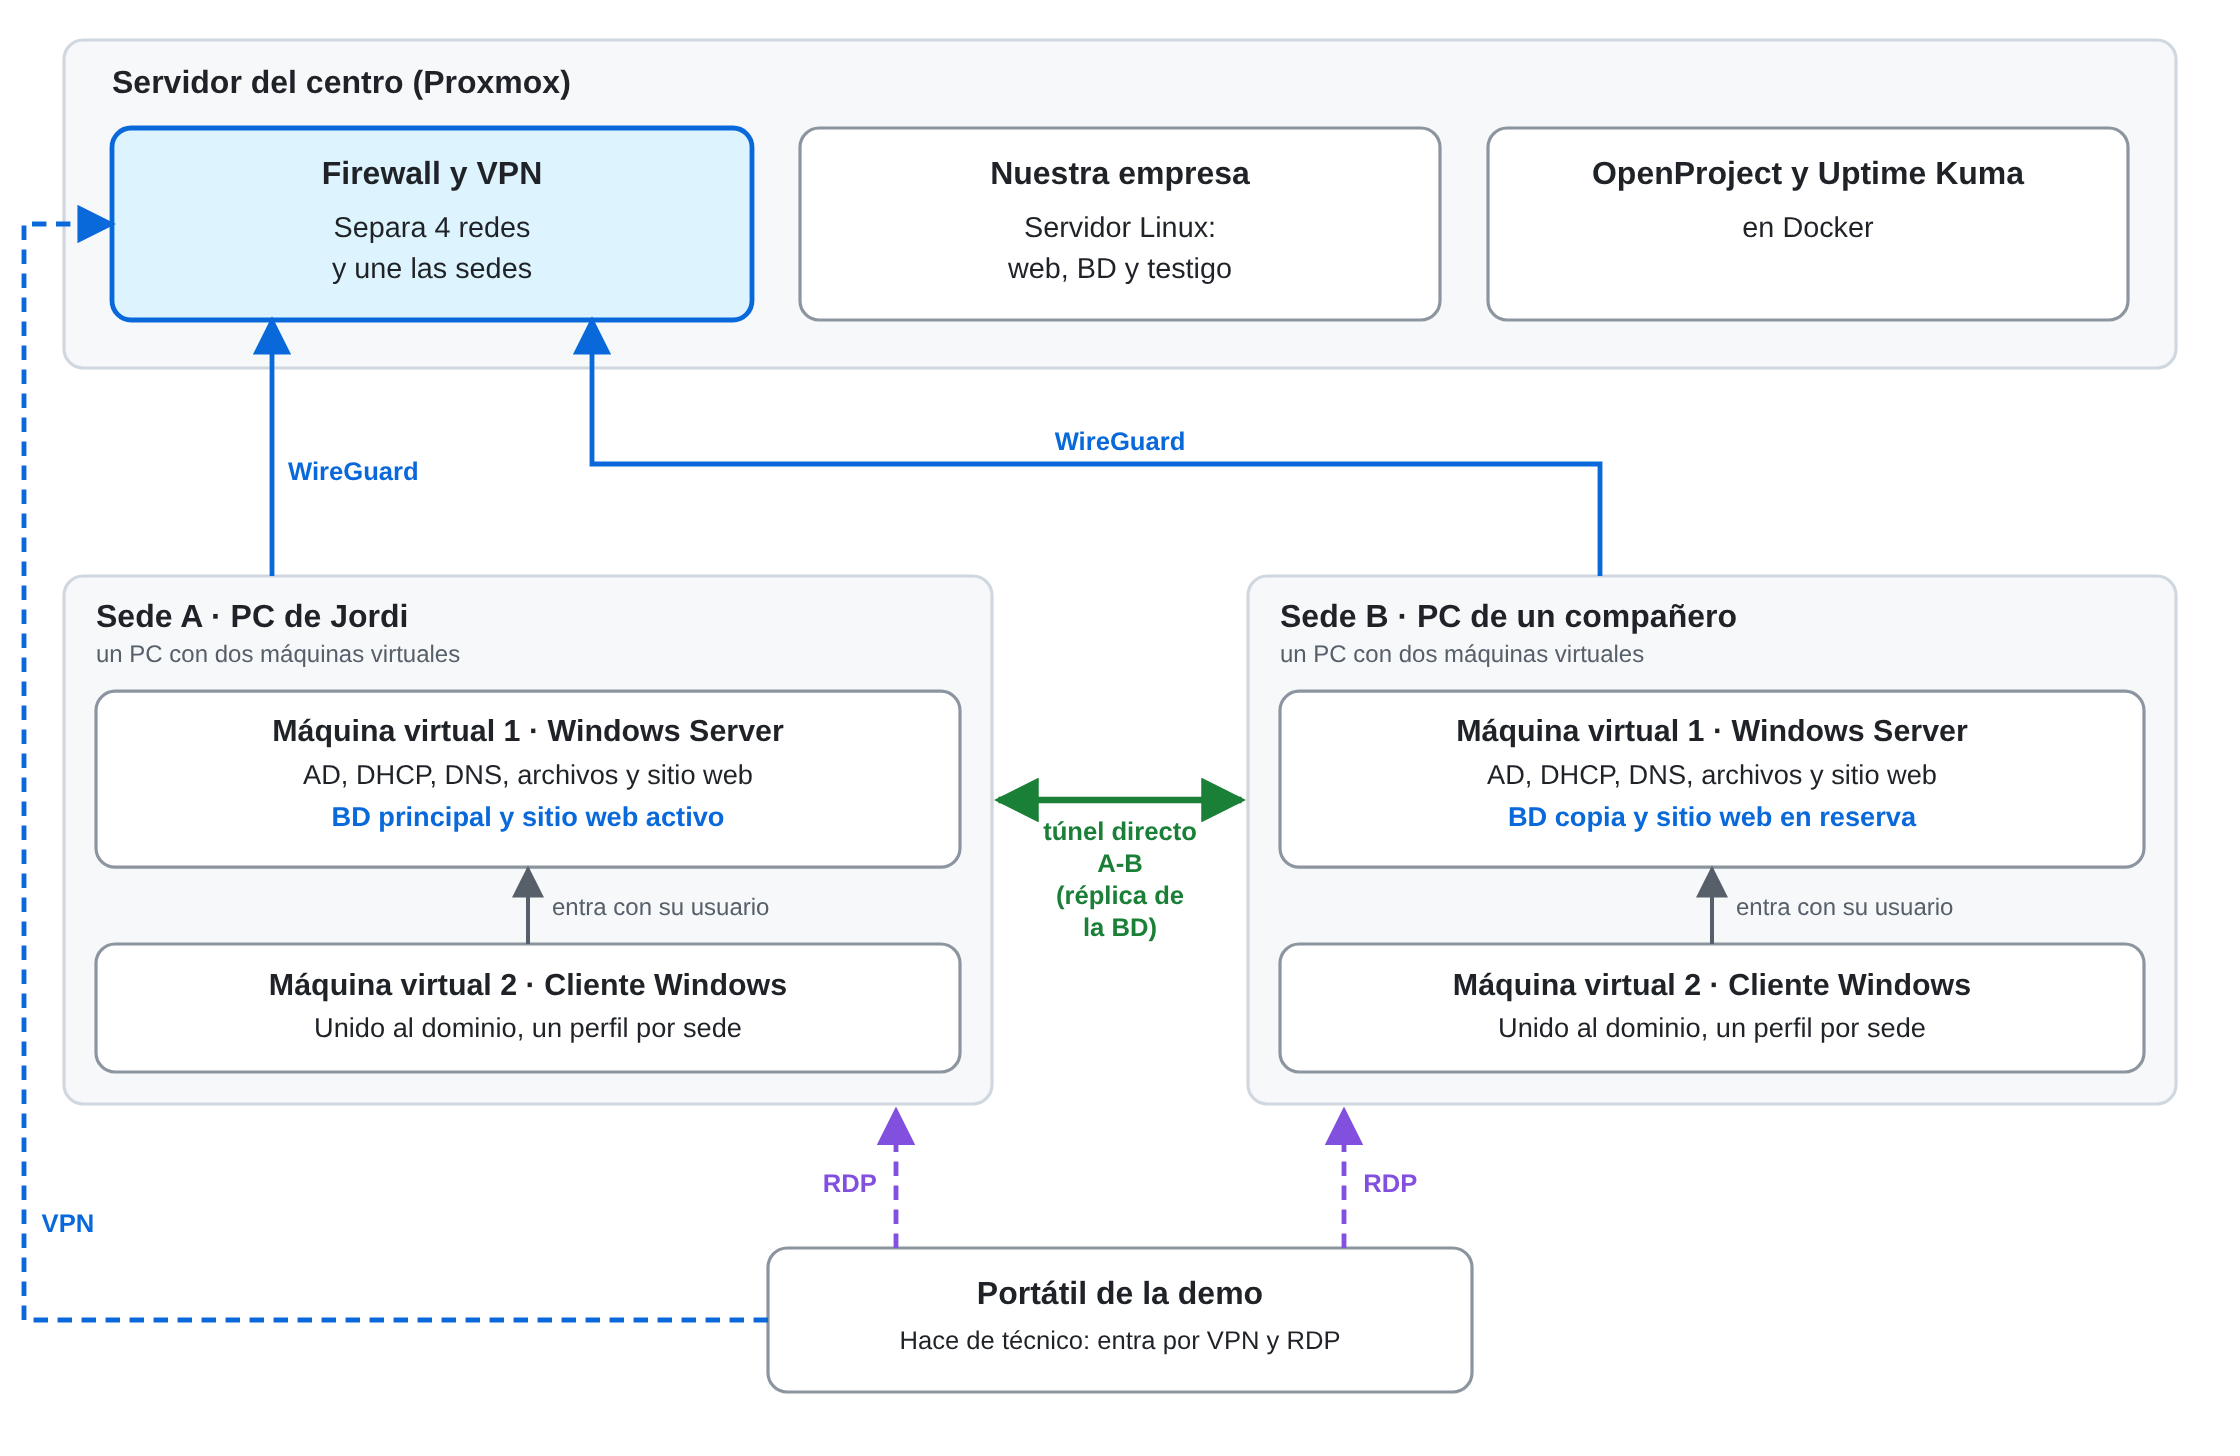
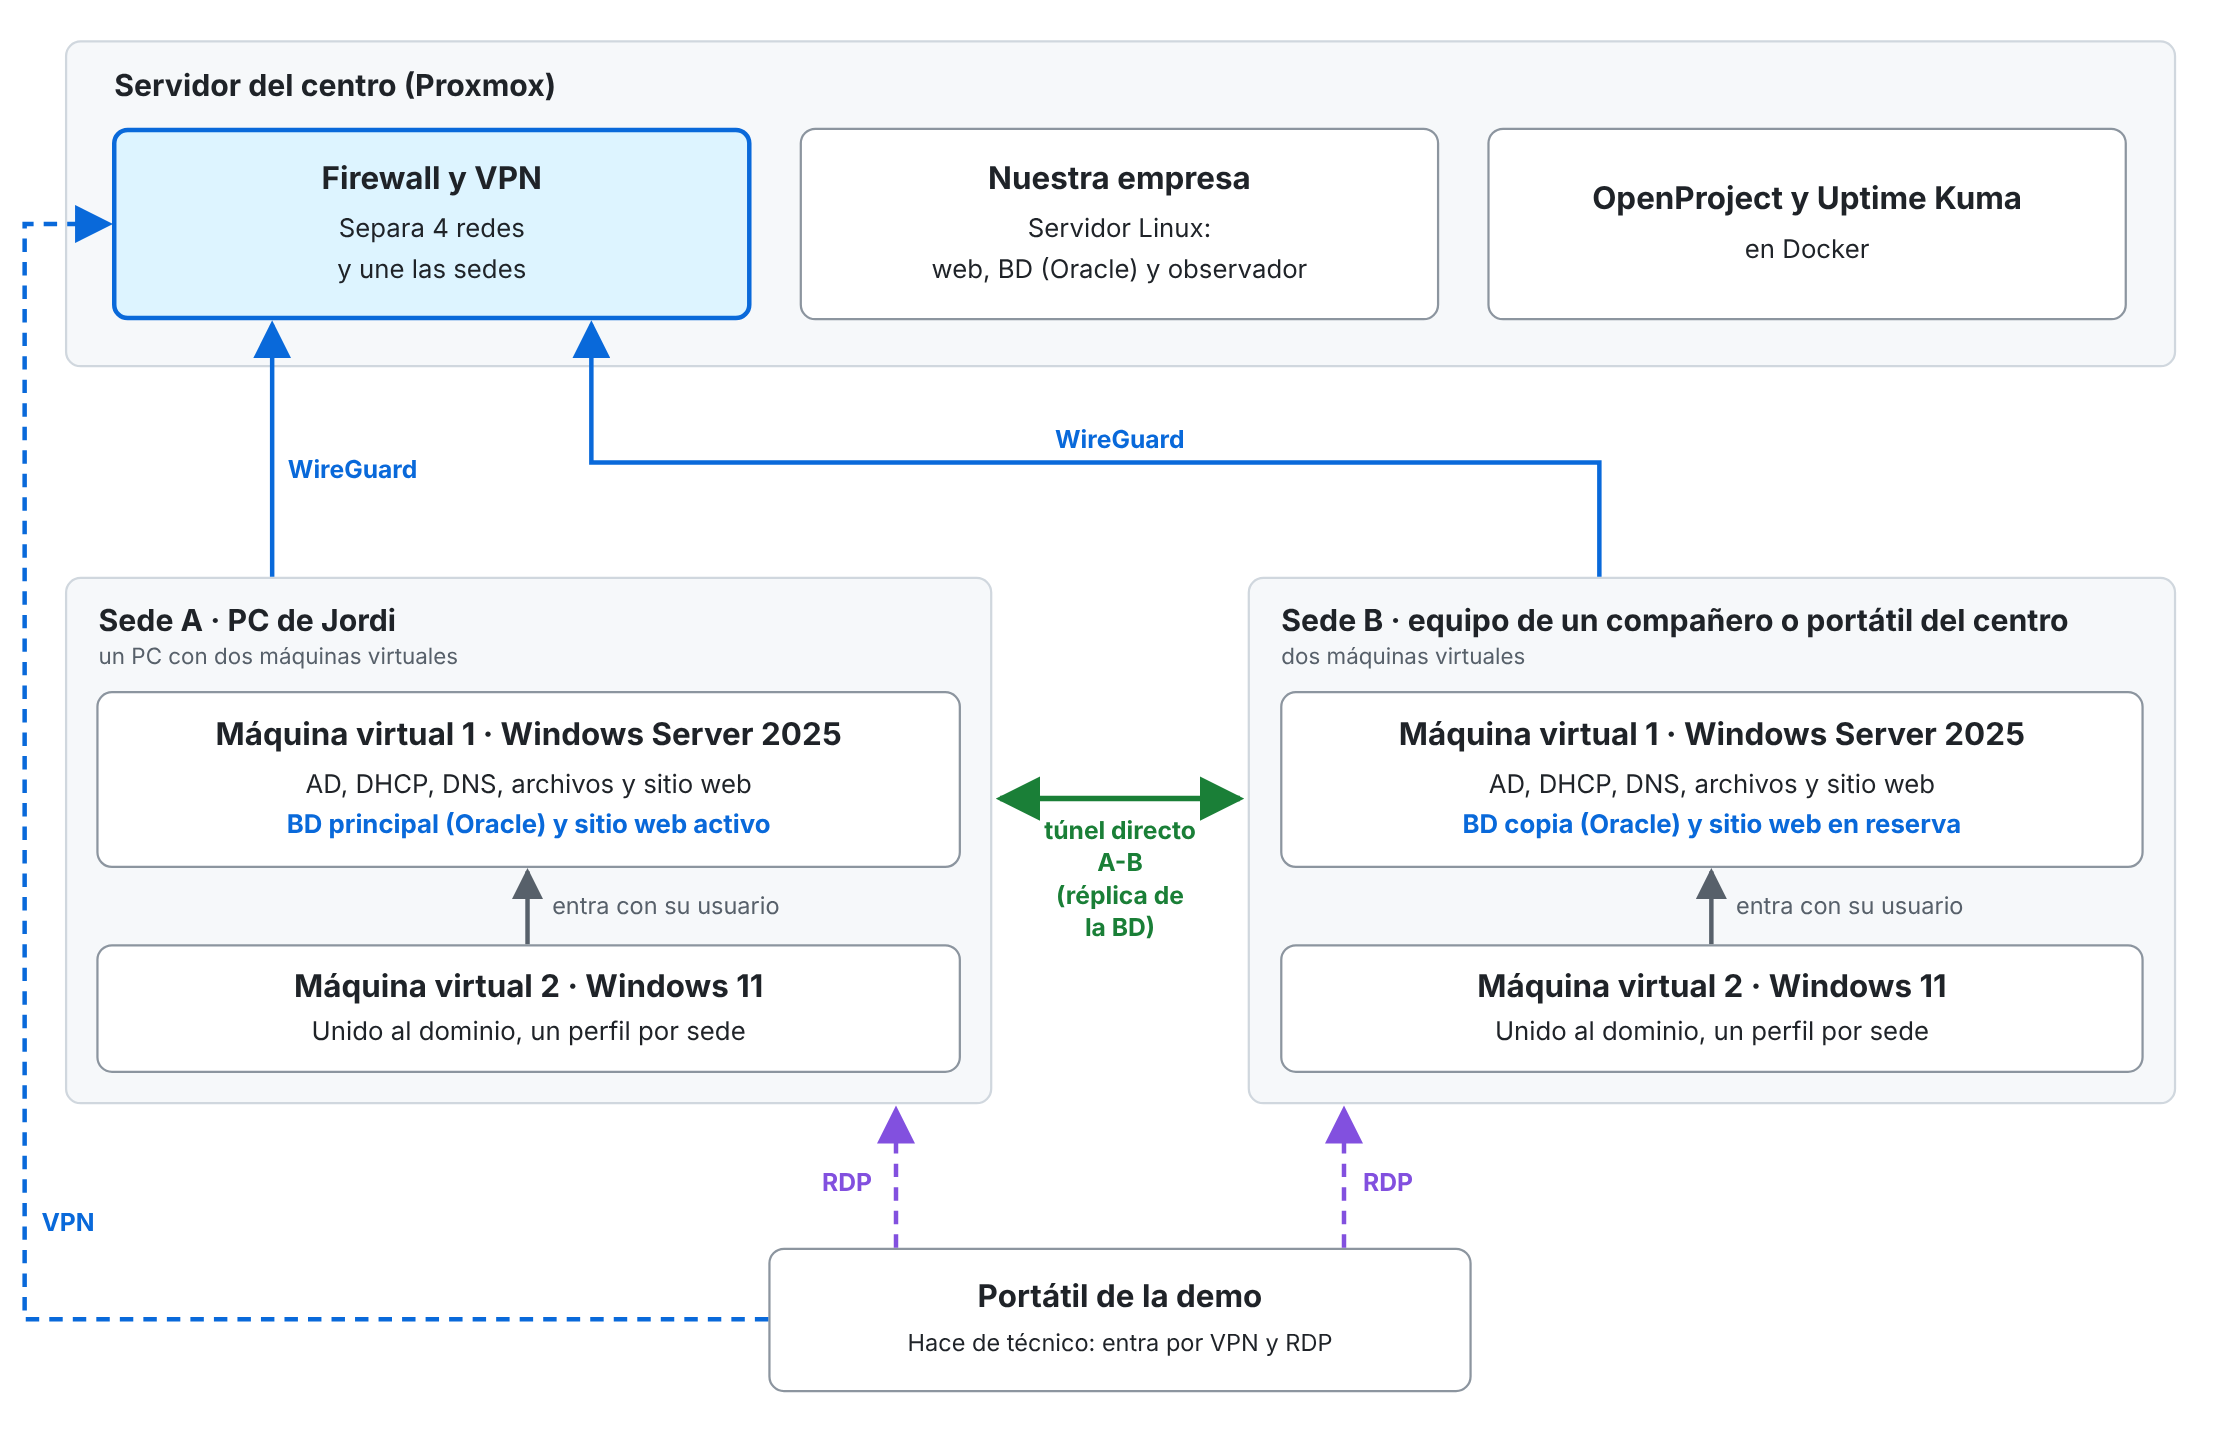
Actualiza el diagrama de red
Windows Server 2025 y Windows 11, Oracle en las sedes, observador en
lugar de testigo y sede B en el equipo de un compañero o en un portátil
del centro. Se añade la fuente editable en docs/diagramas/.

Claude-Session: https://claude.ai/code/session_01JkEC4rqKqJ51wgQXNAjmri

diff --git a/docs/diagramas/diagrama-red.html b/docs/diagramas/diagrama-red.html
@@ -1,0 +1,63 @@
+<!doctype html>
+<html><head><meta charset="utf-8">
+<style>
+  body { margin:0; width:2000px; height:1300px; background:#fff; font-family:Inter, Arial, sans-serif; color:#1f2328; position:relative; }
+  .grupo { position:absolute; background:#f6f8fa; border:2px solid #d0d7de; border-radius:14px; box-sizing:border-box; }
+  .grupo .t { position:absolute; left:28px; top:20px; font-size:27px; font-weight:700; }
+  .grupo .s { position:absolute; left:28px; top:57px; font-size:20px; color:#57606a; }
+  .caja { position:absolute; background:#fff; border:2.5px solid #8c959f; border-radius:14px; box-sizing:border-box; text-align:center; display:flex; flex-direction:column; justify-content:center; }
+  .caja b { font-size:28px; font-weight:700; margin-bottom:10px; }
+  .caja span { font-size:23px; line-height:36px; }
+  .caja .azul { color:#0969da; font-weight:700; }
+  .fw { background:#ddf4ff; border:4px solid #0969da; }
+  .et { position:absolute; font-size:22px; font-weight:700; }
+  .gris { color:#57606a; font-weight:400; font-size:21px; }
+</style></head><body>
+
+<div class="grupo" style="left:58px;top:36px;width:1885px;height:292px"><div class="t" style="left:42px;top:22px">Servidor del centro (Proxmox)</div></div>
+<div class="caja fw" style="left:100px;top:114px;width:571px;height:172px"><b>Firewall y VPN</b><span>Separa 4 redes<br>y une las sedes</span></div>
+<div class="caja" style="left:714px;top:114px;width:571px;height:172px"><b>Nuestra empresa</b><span>Servidor Linux:<br>web, BD (Oracle) y observador</span></div>
+<div class="caja" style="left:1328px;top:114px;width:571px;height:172px"><b>OpenProject y Uptime Kuma</b><span>en Docker</span></div>
+
+<div class="grupo" style="left:58px;top:515px;width:828px;height:471px"><div class="t">Sede A · PC de Jordi</div><div class="s">un PC con dos máquinas virtuales</div></div>
+<div class="caja" style="left:86px;top:617px;width:772px;height:158px"><b>Máquina virtual 1 · Windows Server 2025</b><span>AD, DHCP, DNS, archivos y sitio web</span><span class="azul">BD principal (Oracle) y sitio web activo</span></div>
+<div class="caja" style="left:86px;top:843px;width:772px;height:115px"><b style="margin-bottom:6px">Máquina virtual 2 · Windows 11</b><span>Unido al dominio, un perfil por sede</span></div>
+
+<div class="grupo" style="left:1114px;top:515px;width:829px;height:471px"><div class="t">Sede B · equipo de un compañero o portátil del centro</div><div class="s">dos máquinas virtuales</div></div>
+<div class="caja" style="left:1143px;top:617px;width:771px;height:158px"><b>Máquina virtual 1 · Windows Server 2025</b><span>AD, DHCP, DNS, archivos y sitio web</span><span class="azul">BD copia (Oracle) y sitio web en reserva</span></div>
+<div class="caja" style="left:1143px;top:843px;width:771px;height:115px"><b style="margin-bottom:6px">Máquina virtual 2 · Windows 11</b><span>Unido al dominio, un perfil por sede</span></div>
+
+<div class="caja" style="left:686px;top:1114px;width:628px;height:129px"><b style="margin-bottom:8px">Portátil de la demo</b><span style="font-size:21px">Hace de técnico: entra por VPN y RDP</span></div>
+
+<svg width="2000" height="1300" style="position:absolute;left:0;top:0" xmlns="http://www.w3.org/2000/svg">
+  <defs>
+    <marker id="az" markerWidth="12" markerHeight="12" refX="10" refY="6" orient="auto" markerUnits="userSpaceOnUse" viewBox="0 0 12 12"><path d="M0,0 L12,6 L0,12 z" fill="#0969da" transform="scale(1)"/></marker>
+    <marker id="azg" markerWidth="34" markerHeight="34" refX="30" refY="17" orient="auto" markerUnits="userSpaceOnUse"><path d="M0,0 L34,17 L0,34 z" fill="#0969da"/></marker>
+    <marker id="ve" markerWidth="40" markerHeight="40" refX="36" refY="20" orient="auto-start-reverse" markerUnits="userSpaceOnUse"><path d="M0,0 L40,20 L0,40 z" fill="#1a7f37"/></marker>
+    <marker id="gr" markerWidth="28" markerHeight="28" refX="25" refY="14" orient="auto" markerUnits="userSpaceOnUse"><path d="M0,0 L28,14 L0,28 z" fill="#57606a"/></marker>
+    <marker id="mo" markerWidth="34" markerHeight="34" refX="30" refY="17" orient="auto" markerUnits="userSpaceOnUse"><path d="M0,0 L34,17 L0,34 z" fill="#8250df"/></marker>
+  </defs>
+  <!-- WireGuard sedes -> firewall -->
+  <path d="M243,515 L243,290" stroke="#0969da" stroke-width="4" fill="none" marker-end="url(#azg)"/>
+  <path d="M1428,515 L1428,413 L528,413 L528,290" stroke="#0969da" stroke-width="4" fill="none" marker-end="url(#azg)"/>
+  <!-- túnel A-B -->
+  <path d="M893,713 L1107,713" stroke="#1a7f37" stroke-width="5" fill="none" marker-start="url(#ve)" marker-end="url(#ve)"/>
+  <!-- cliente -> servidor -->
+  <path d="M471,843 L471,778" stroke="#57606a" stroke-width="4" fill="none" marker-end="url(#gr)"/>
+  <path d="M1528,843 L1528,778" stroke="#57606a" stroke-width="4" fill="none" marker-end="url(#gr)"/>
+  <!-- RDP -->
+  <path d="M800,1114 L800,991" stroke="#8250df" stroke-width="4" stroke-dasharray="12,9" fill="none" marker-end="url(#mo)"/>
+  <path d="M1200,1114 L1200,991" stroke="#8250df" stroke-width="4" stroke-dasharray="12,9" fill="none" marker-end="url(#mo)"/>
+  <!-- VPN portátil -> firewall -->
+  <path d="M686,1178 L22,1178 L22,200 L97,200" stroke="#0969da" stroke-width="4" stroke-dasharray="12,9" fill="none" marker-end="url(#azg)"/>
+</svg>
+
+<div class="et" style="left:257px;top:407px;color:#0969da">WireGuard</div>
+<div class="et" style="left:942px;top:380px;color:#0969da">WireGuard</div>
+<div class="et" style="left:900px;top:728px;width:200px;text-align:center;color:#1a7f37;line-height:29px">túnel directo<br>A-B<br>(réplica de<br>la BD)</div>
+<div class="et gris" style="left:493px;top:797px">entra con su usuario</div>
+<div class="et gris" style="left:1550px;top:797px">entra con su usuario</div>
+<div class="et" style="left:734px;top:1043px;color:#8250df">RDP</div>
+<div class="et" style="left:1217px;top:1043px;color:#8250df">RDP</div>
+<div class="et" style="left:37px;top:1079px;color:#0969da">VPN</div>
+</body></html>

diff --git a/docs/seguimiento.md b/docs/seguimiento.md
@@ -24,7 +24,7 @@ Para el grupo:
 - [ ] Buscar nombres para nuestra empresa y para la empresa cliente. Bloquean el dominio de AD, los nombres DNS y los certificados.
 - [ ] Conseguir las licencias educativas antes de instalar AD en las sedes.
 - [ ] Medir el consumo de los servidores (y monitor y router...) de las sedes y nuestro servidor propio para dimensionar los SAI.
-- [ ] Regenerar `diagrama-red.png` a partir del texto Mermaid actualizado.
+- [x] Regenerar `diagrama-red.png` con los datos actualizados (fuente editable en `docs/diagramas/diagrama-red.html`).
 - [x] Montar OpenProject de prueba (MV de Ubuntu Server en el PC de Jordi).
 - [x] VPN WireGuard para acceder a OpenProject desde fuera.
 
